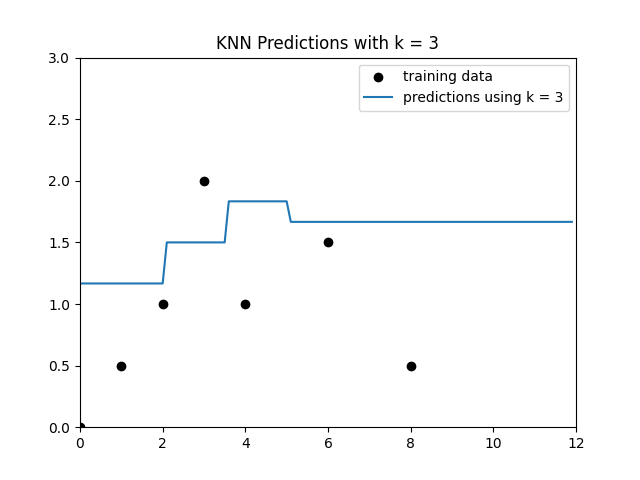
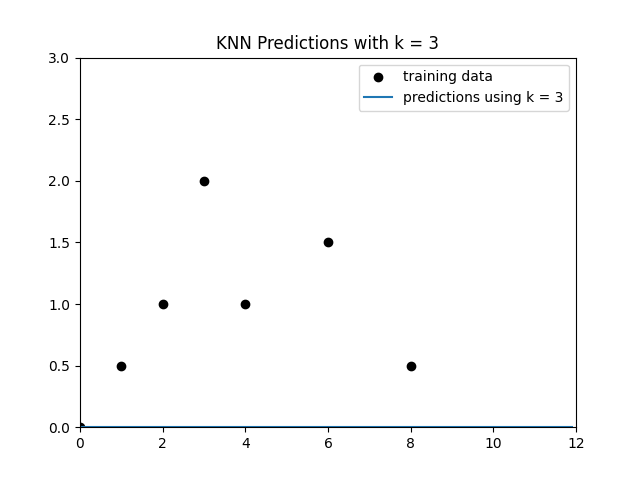
T1_P1 & working on T1_P2

Changed region(s): [[0.3438, 0.4062, 0.9062, 0.5], [0.125, 0.5, 0.3438, 0.5938]]

diff --git a/HW1/T1_P2.py b/HW1/T1_P2.py
@@ -44,20 +44,22 @@ def predict_knn(k, tau=1):
     for x in x_test:
         lst = []
         for i, (x_n, y_n) in enumerate(data):
-            distance = - (x_n - x) ** 2
+            distance = - ((x_n - x) ** 2)
             kernel = pow(np.e, distance)
             lst.append((i, kernel))
         k_dist.append(lst)
     
     for lst in k_dist:
         lst.sort(key=takeSecond, reverse=True)
-    print(k_dist)
+
     for n, lst in enumerate(k_dist):
         kernel_reg = 0
         for i, (j, dist) in enumerate(lst):
-            if i <= k:
+            if i < k:
                 x, y = data[j]
                 kernel_reg += y
+                print(f"{n}:")
+                print(kernel_reg)
             else:
                 y_test[n] = (1/k) * kernel_reg
     print(y_test)
